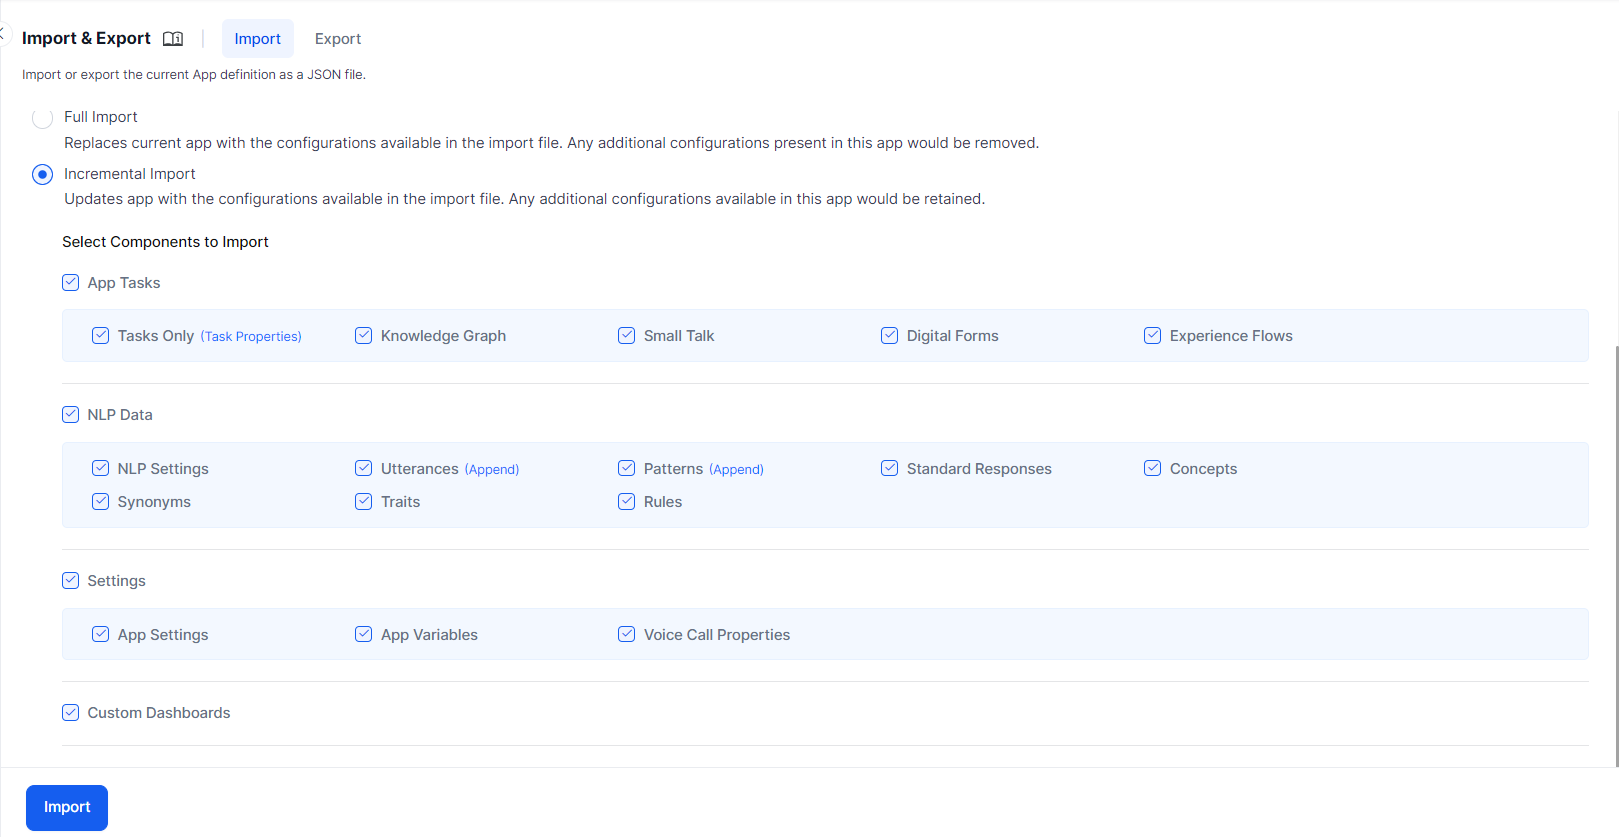
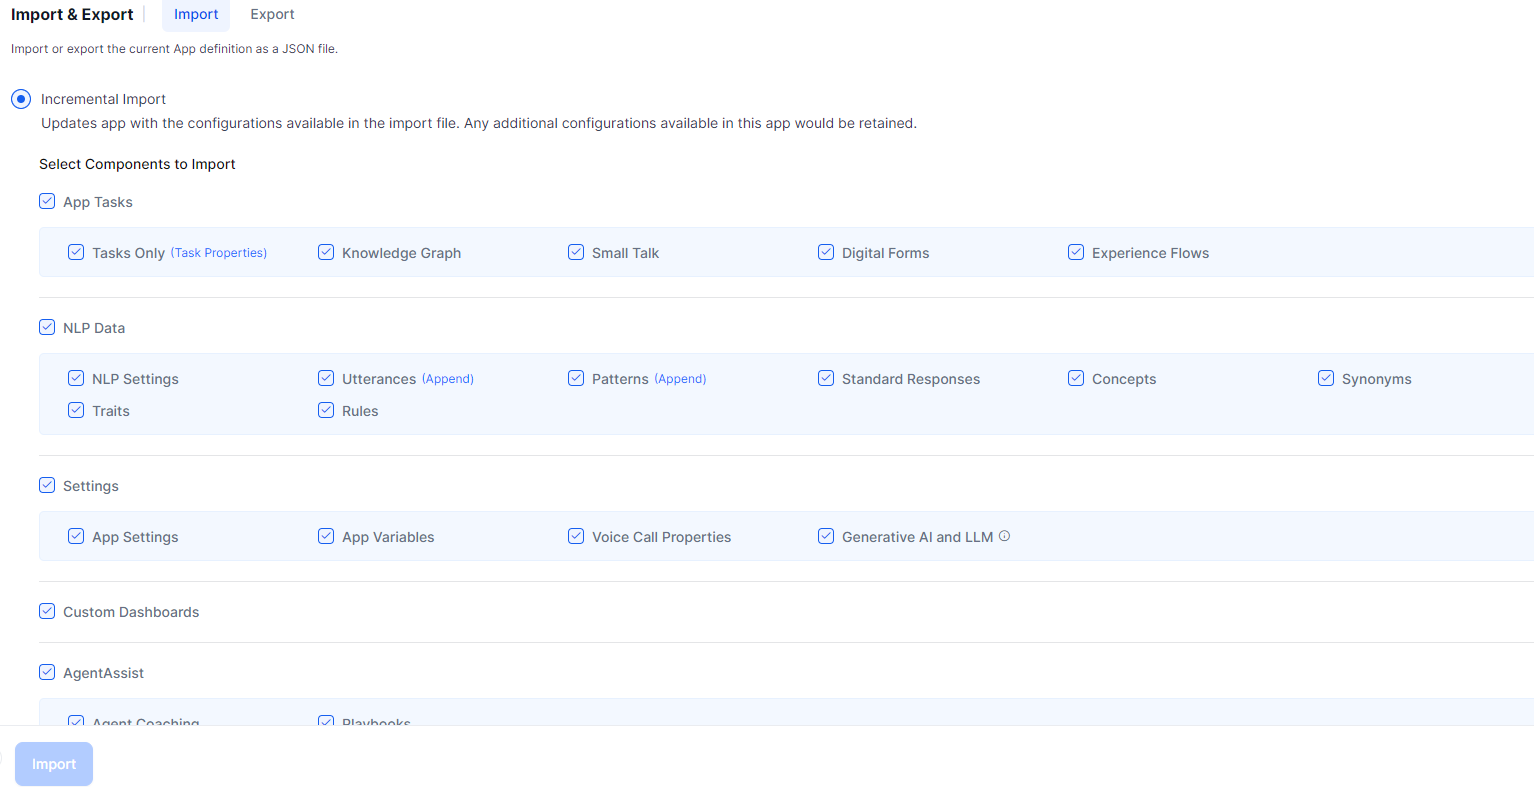
v11.4 incremental changes (#46)
* conversation intelligence doc updated

* Release notes update

* QM setup guide minor edits

* settings page updated

* app settings for Automation vs Search fallback settings

* best practices updated

* BP edited

* app profile updated

* minor edit

* Enabling Answers in Automation AI

* images deleted from tables

* tokens toc

* update

* fixed typo

* update

* update

* update

* formatting issue fix

* table indent

* deleted duplicate

* .

* .

* delete

* Update web-crawl.md

* formatting issue fixes

* formatting changes

* changed a path

* formatting done

* formatting done

* file renamed and toc updated

* Formatting changed

* formatting corrected

* formatting done

* commit: api edits

* commit: edits

* commit: edits

* commit: edits api

* updated "Entity Node"

* commit: sunshne templates

* commit: sunshine templates edits

* commit: edits

* xo v11 limitations updated

* limitations updated

* updated links

* note

* auto dialers content restructured

* typo fixed

* update

* updates

* updated image size

* updated steps

* conversation-tray image updated

* Conversation History API for PLAT-31341

* doc update

* image resized

* update

* Removed mention of Postman collection

* formatting done

* update

* Setup guide Config metrics link updated

* updated naming of the page

* The QM Title updated

* minor editorial changes done

* minor updation

* updated

* cosmetic changes done

* update

* formatting
[…]

diff --git a/docs/xo/deploy/bot-management.md b/docs/xo/deploy/bot-management.md
@@ -1,5 +1,5 @@
 
-# VA Management
+# App Management
 
 This article discusses the main features that allow you to manage your Virtual Assistant (VA) at a high level. These include Importing, Exporting, and Deleting assistants, as well as viewing change logs.
 
@@ -38,63 +38,79 @@ To import a Virtual Assistant, follow these steps:
 1. Open the assistant you want to export.
 2. Select the **Deploy** tab from the left menu.
 3. Select **Import & Export** under **DEPLOY MANAGEMENT**.
-4. On the Import & Export page select the **Import** tab.
+4. On the Import & Export page, select the **Import** tab.
 5. You can choose one of the below import options:
 
     * Import by uploading **individual JSON files**:
         1. Choose the **JSON Files** radio button.
-        2. Click the **Choose File** buttons next to the **Bot Definition File** field and **Bot Config File** field, and upload the _appDefinition.json_ and _config.json_ files respectively.
-        3. Optionally, upload the custom script file from the imported assistant if any. The file size is limited to 500kb.
+        2. Click the **Choose File** buttons next to the **Bot Definition File** field and **Bot Config File** fields, and upload the _appDefinition.json_ and _config.json_ files, respectively.
+        3. Optionally, upload the custom script file from the imported assistant, if any. The file size is limited to 500kb.
         
         <img src="../images/bot-import-custom-script-file1.png" alt="App import - JSON files" title="App import - JSON files" style="border:1px solid gray; zoom:70%;">
 
-    * Import by uploading **ZIP file**:
+    * Import by uploading a **ZIP file**:
         1. Choose the **Zip File** radio button.
-        2. Through the **Choose File** button, browse and import the Zip file. Using this option you can import an app by directly importing the zip file created at the time of Export, without having to unzip.
+        2. Through the **Choose File** button, browse and import the Zip file. This option allows you to import an app by directly importing the zip file created at the time of Export without having to unzip it.
 
         <img src="../images/bot-import-zip-file.png" alt="App import - ZIP file" title="App import - ZIP file" style="border:1px solid gray; zoom:70%;">
 
-6. Select one of these import options: **Full Import** or **Incremental Import**. You will get a warning to backup your assistant before performing the import.
-7. If you select **Full import**, the VA definition in the in-development copy will be overwritten with the definition present in the import file.
-    
-    * If there are one or more additional tasks or languages in the assistant, and if these are not present in the import definition, then these tasks will be marked as deleted and will be removed when the VA is published.
+6. Select one of these import options: **Full Import** or **Incremental Import**. You will get a warning to back up your assistant before performing the import.
+7. If you select **Full import**, the VA definition in the in-development copy will be overwritten with the definition in the import file.
 
-8. If you select **Incremental import**, you can also choose which components to import.
+    * If the assistant contains one or more additional tasks or languages that are not present in the import definition, these tasks will be marked as deleted and removed when the VA is published.
+    * For Generative AI and LLM features, **Full import**:  
+
+        * Deletes existing models and prompts in the target app.
+        * Overwrites with models, prompts, and GenAI features from the import file.
+        * Retains model configurations if a model exists in both source and target
+        * Replaces all feature mappings, custom instructions, and guardrails.
+        * Preserve existing integrations.
+        * Import XO-GPT integration as-is.
+        * Enable imported features with warnings.
+        * Handle **Azure Open AI by Kore.ai** integration based on token status.
+
+8. If you select **Incremental import**, you can choose which components to import.
 
     <img src="../images/bm(4).png" alt="Incremental import" title="Incremental import" style="border:1px solid gray; zoom:60%;">
 
-    * **Bot Tasks**: Here is where you can select to import Tasks only (with or without comments), Knowledge Graph, Small Talk or Digital Forms.
+    * **Bot Tasks**: Here, you can select to import Tasks only (with or without comments), Knowledge Graph, Small Talk, or Digital Forms.
 
-        !!! note
+        !!! Note
 
             If you want to import one or more Bot Tasks, also select the **NLP Data** settings, as they are linked. For example, the utterances assigned to dialog tasks are not imported if you don’t select the NLP Data settings, causing problems in identifying the dialog properly.
 
-    * **NLP Data**: This is where you can import Synonyms, Concepts, Traits, Rules, Utterances, Patterns and Standard Responses. ML Utterances and Patterns can either be Appended or Replaced.
+    * **NLP Data**: Here you can import Synonyms, Concepts, Traits, Rules, Utterances, Patterns, and Standard Responses. ML Utterances and Patterns can either be Appended or Replaced.
             
-        1. **Append** can be used when the utterances present in the file should be imported into the assistant and any additional utterances in the VA should be retained (this is the default behavior).
-        2. **Replace** can be used when the utterances present in the file should be imported into the assistant. Any additional utterances will be removed.
+        1. **Append** can be used when the utterances in the file should be imported into the assistant, and any additional utterances in the VA should be retained (this is the default behavior).
+        2. **Replace** can be used when the utterances in the file should be imported into the assistant. Any additional utterances will be removed.
         
-            In case you are importing Tasks too, the additional utterances related to tasks being imported will be removed. 
+            If you are also importing Tasks, the additional utterances related to tasks being imported will be removed. 
 
             <img src="../images/bm(1).png" alt="App import" title="App import" style="border:1px solid gray; zoom:60%;">
 
 
-        3. The imported Traits, Synonyms and Concepts will replace those in the target VA. Rules can be imported along with their tagged dialog tasks.
+        3. The imported Traits, Synonyms, and Concepts will replace those in the target VA. Rules can be imported along with their tagged dialog tasks.
 
-    * **Settings**: Bot Settings, Bot Variables and Voice Call Properties.
-    * **Custom Dashboards** – This is useful in case you have created custom dashboards under the Analyze section and you want to import these to the new VA as well. 
+    * **Settings**: Bot Settings, Bot Variables, Voice Call Properties, Generative AI and LLM. The Generative AI and LLM setting includes:  
+
+        * Integrations
+        * Prompts and Requests Library
+        * Feature Mappings
+        * Guardrails 
+        
+    * **Custom Dashboards**: This is useful in case you have created custom dashboards under the Analyze section and want to import them to the new VA as well. 
     * On the confirmation dialog that opens, click **Backup** to download the existing assistant configuration.
 
         <img src="../images/bm(8).png" alt="Backup notification" title="Backup notification" style="border:1px solid gray; zoom:60;">
     
-        !!! note
+        !!! Note
 
             While backing up is an optional choice, we strongly recommend you do so, especially when choosing Full Import, as you cannot recover the configurations after the imported assistant replaces them.
 
 9. Click **Proceed** to start the import.
 10. After the import is completed, the following success message appears. Click **Done**.
     
-    !!! note
+    !!! Note
 
         Bot import would fail if the assistant has been restored but not published after the restore. 
 
@@ -139,7 +155,7 @@ To import a VA while creating it, follow these steps:
   <tr>
    <td>Tasks with the same Reference ID
    </td>
-   <td>Imported tasks replace the tasks in the target assistant and their status changes to Configured, regardless of their current status (including Suspended and Rejected tasks).
+   <td>Imported tasks replace the tasks in the target assistant, and their status changes to Configured, regardless of their current status (including Suspended and Rejected tasks).
    </td>
   </tr>
   <tr>
@@ -169,7 +185,7 @@ To import a VA while creating it, follow these steps:
   <tr>
    <td>Synonyms, Concepts, and Traits
    </td>
-   <td>They are imported from the source VA along with all their underlying terms, and replace the ones in the target VA.
+   <td>They are imported from the source VA along with all their underlying terms and replace the ones in the target VA.
    </td>
   </tr>
   <tr>
@@ -177,6 +193,24 @@ To import a VA while creating it, follow these steps:
    </td>
    <td>Rules will be imported only if their tagged dialog tasks are imported.<br><br>
     <strong>Note</strong>: On-Prem customers can import the NLP components (Synonyms, Concepts, Rules, Traits) from a source VA of a higher version to a target VA of a lower version by checking the <strong>NLP Settings</strong> checkbox. However, Rules won’t import unless the tagged dialog tasks are also imported.
+   </td>
+  </tr>
+  <tr>
+   <td>Generative AI and LLM    
+   </td>
+   <td>
+   <br>
+    – Keeps existing prompts, only adds new ones.
+    <br>
+    – Replaces all feature mappings, custom instructions, and guardrails.
+    <br>
+    – Preserve existing integrations.
+    <br>
+    – Import XO-GPT integration as-is.
+    <br>
+    – Enable imported features with warnings.
+    <br>
+    – Handle "Azure Open AI by Kore.ai" integration based on token status.
    </td>
   </tr>
 </table>
@@ -196,7 +230,7 @@ When you export a assistant, it downloads a zipped file with the following param
 * **Icon.png**: Includes the assistant icon.
 * **&lt;_Custom ScriptFile Name_.js> (if available)**: Includes a script file with JavaScript functions. When you upload this file, you can access the functions in the file from anywhere in the assistant.
 
-!!! note
+!!! Note
 
     The assistant and its components are given unique Reference IDs during export. These IDs help the platform to identify matching tasks in the target VA and update them.
 
@@ -413,7 +447,7 @@ When you export a VA, the following components get exported, depending on your L
   <tr>
    <td>Bot Settings
    </td>
-   <td>The following information from Bot Settings page:
+   <td>The following information from the Bot Settings page:
 <ul>
 
 <li>General Settings
@@ -440,7 +474,7 @@ When you export a VA, the following components get exported, depending on your L
   <tr>
    <td>Bot Variables
    </td>
-   <td>All the global and content variables present in the assistant along with their values.
+   <td>All the global and content variables present in the assistant, along with their values.
    </td>
   </tr>
   <tr>
@@ -449,6 +483,26 @@ When you export a VA, the following components get exported, depending on your L
    <td>All the IVR settings for the assistant (Bot Settings > IVR settings).
    </td>
   </tr>
+  <tr>
+   <td>Generative AI	  
+ and LLM
+</td>
+   <td>
+<ul>
+
+<li>Integrations
+
+<li>Prompts and Requests Library
+
+<li>Feature Mappings
+
+<li>Guardrails
+
+</li>
+</ul>
+   </td>
+  </tr>
+
 </table>
 
 ## Deleting an Assistant

diff --git a/docs/xo/contactcenter/campaigns/campaign-management/sms-campaigns.md b/docs/xo/contactcenter/campaigns/campaign-management/sms-campaigns.md
@@ -51,14 +51,17 @@ Steps to create an SMS campaign:
 4. Click **Save** after entering the message.  
 <img src="../images/save-message-sms.png" alt="Save Message" title="Save Message" style="border: 1px solid gray; zoom:80%;">
 
-5. On the **Outreach Strategy** tab, select the **Timezone** from the drop-down and add the Contactable Timings (day of the week/time) when the dialer will dial the calls.  
+5. On the **Outreach Strategy** tab, first select the Caller ID. Caller ID is the number that is used to send SMS and the same number is displayed on recipient's phone.
+For Simple message format, the caller ID shows the numbers that are configured as Outbound only and are not associated with any flows.
+
+6. select the **Timezone** from the drop-down and add the Contactable Timings (day of the week/time) when the dialer will dial the calls.  
 <img src="../images/outreach-strategy-tab.png" alt="Outreach Strategy Tab" title="Outreach Strategy Tab" style="border: 1px solid gray; zoom:80%;">
 
     !!! Note
 
         Calls will be dialed to contacts based on the calling hours and timezone configured here, irrespective of the campaign's start and stop time.
 
-6. Click **Save**. The campaign is created.
+7. Click **Save**. The campaign is created.
 
 ## Edit an SMS Campaign
 
@@ -94,7 +97,7 @@ Steps to delete an SMS campaign:
 <img src="../images/delete-button-sms.png" alt="Delete Campaign Button" title="Delete Campaign Button" style="border: 1px solid gray; zoom:80%;">
 
 2. A confirmation pop-up window appears. Click **Delete**.  
-<img src="../images/delete-campaign-confirmation-sms.png" alt="Delete Campaign Confirmation" title="Delete Campaign Confirmation" style="border: 1px solid gray; zoom:60%;">
+<img src="../images/delete-campaign-confirmation-sms.png" alt="Delete Campaign Confirmation" title="Delete Campaign Confirmation" style="border: 1px solid gray; zoom:60%;">  
 
 ## Run SMS Campaigns
 

diff --git a/docs/xo/deploy/publishing-bot.md b/docs/xo/deploy/publishing-bot.md
@@ -1,4 +1,4 @@
-# Publishing your VA
+# Publishing your App
 
 End users can interact with a VA only when it is published. The Kore.ai Experience Optimization Platform provides a publishing flow to allow administrators to review new VAs and updates before they are made available to end users. The publishing workflow applies to any component that impacts the end user.
 
@@ -296,6 +296,22 @@ Every component that impacts end-user interactions or experience goes through th
    <td>Custom Script
    </td>
    <td>Replaces the Custom Script file in the Published version with the ones in the In Development version.
+   </td>
+  </tr>
+
+  <tr>
+   <td>Generative AI and LLM
+   </td>
+   <td>Replaces the Generative AI and LLM related features in the Published version with the ones in the In Development version.The setting includes:
+
+   <br>
+    – Integration
+    <br>
+    – Prompts and Requests Library
+    <br>
+    – Feature Mappings
+    <br>
+    – Guardrails
    </td>
   </tr>
   

diff --git a/docs/xo/release-notes/11.x/platform-services.md b/docs/xo/release-notes/11.x/platform-services.md
@@ -27,7 +27,7 @@ Key updates:
 * Combined XO10 and XO11 usage statistics on a single page.
 * Detailed usage trends are accessible via the Manage button.  
 
-[Learn more :octicons-arrow-right-24:](../../manage-assistant/plan-and-usage/usage-plans.md#navigating-to-plan-and-usage-1)
+[Learn more :octicons-arrow-right-24:](../../manage-assistant/plan-and-usage/usage-plans.md)
 
 
 ### Deploy Management
@@ -69,7 +69,8 @@ Backward compatibility:
 
 * Existing bots in the Configured state are copied to the Published state.
 
-These changes aim to streamline the deployment and management of GenAI and LLM features across multiple bots and ensure the seamless operation of runtime features for end-users.
+These changes aim to streamline the deployment and management of GenAI and LLM features across multiple bots and ensure the seamless operation of runtime features for end-users. [Learn more :octicons-arrow-right-24:](../../deploy/bot-management.md)
+
 
 ### Channels
 

diff --git a/docs/xo/release-notes/11.x/automation-ai.md b/docs/xo/release-notes/11.x/automation-ai.md
@@ -23,7 +23,7 @@ Backward compatibility:
 * Existing service nodes retain their current timeout behavior while the timeout settings are moved to the Instance Properties. 
 
 
-[Learn more :octicons-arrow-right-24:](../../automation/use-cases/dialogs/node-types/working-with-the-service-node/#instance-properties)
+[Learn more :octicons-arrow-right-24:](../../automation/use-cases/dialogs/node-types/working-with-the-service-node.md#instance-properties)
 
 #### Enhanced Debug Logs
 The platform now groups debug logs by user utterance and bot response in a chat-like structure to improve clarity and efficiency in tracing conversation flow for platform users.
